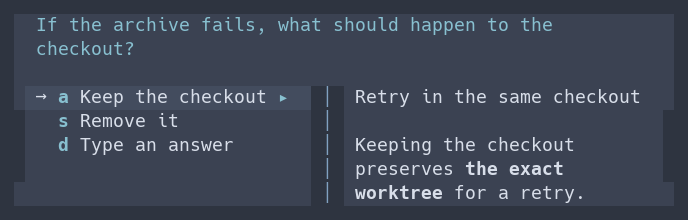
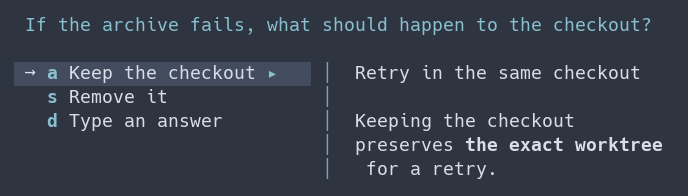
fix(pi): cover transcript edges in question selector

diff --git a/pi/daily-driver/question-selector.ts b/pi/daily-driver/question-selector.ts
@@ -178,10 +178,8 @@ function panelRow(
   const inner = Math.max(1, width - 2);
   const clipped = truncateToWidth(text, inner);
   const padding = " ".repeat(Math.max(0, width - 1 - visibleWidth(clipped)));
-  return theme.bg(
-    focused ? "selectedBg" : "userMessageBg",
-    ` ${clipped}${padding}`,
-  );
+  const row = ` ${clipped}${padding}`;
+  return focused ? theme.style(row, { bg: "selectedBg" }) : row;
 }
 
 export async function chooseQuestion(
@@ -389,7 +387,11 @@ export async function chooseQuestion(
     },
     {
       overlay: true,
-      overlayOptions: { anchor: "center", width: "100%", margin: 1 },
+      overlayOptions: {
+        anchor: "center",
+        width: "100%",
+        margin: { top: 1, bottom: 1 },
+      },
     },
   );
 }
